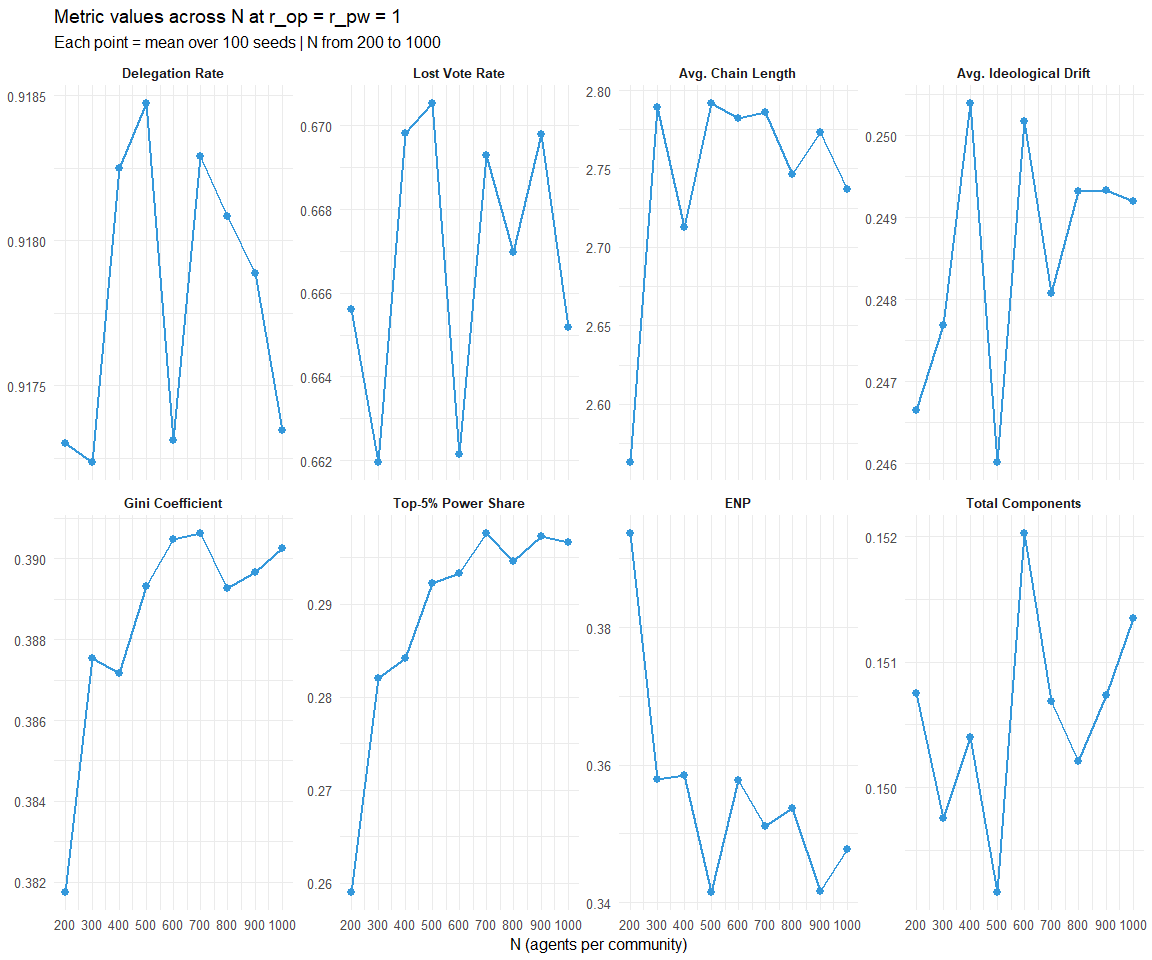
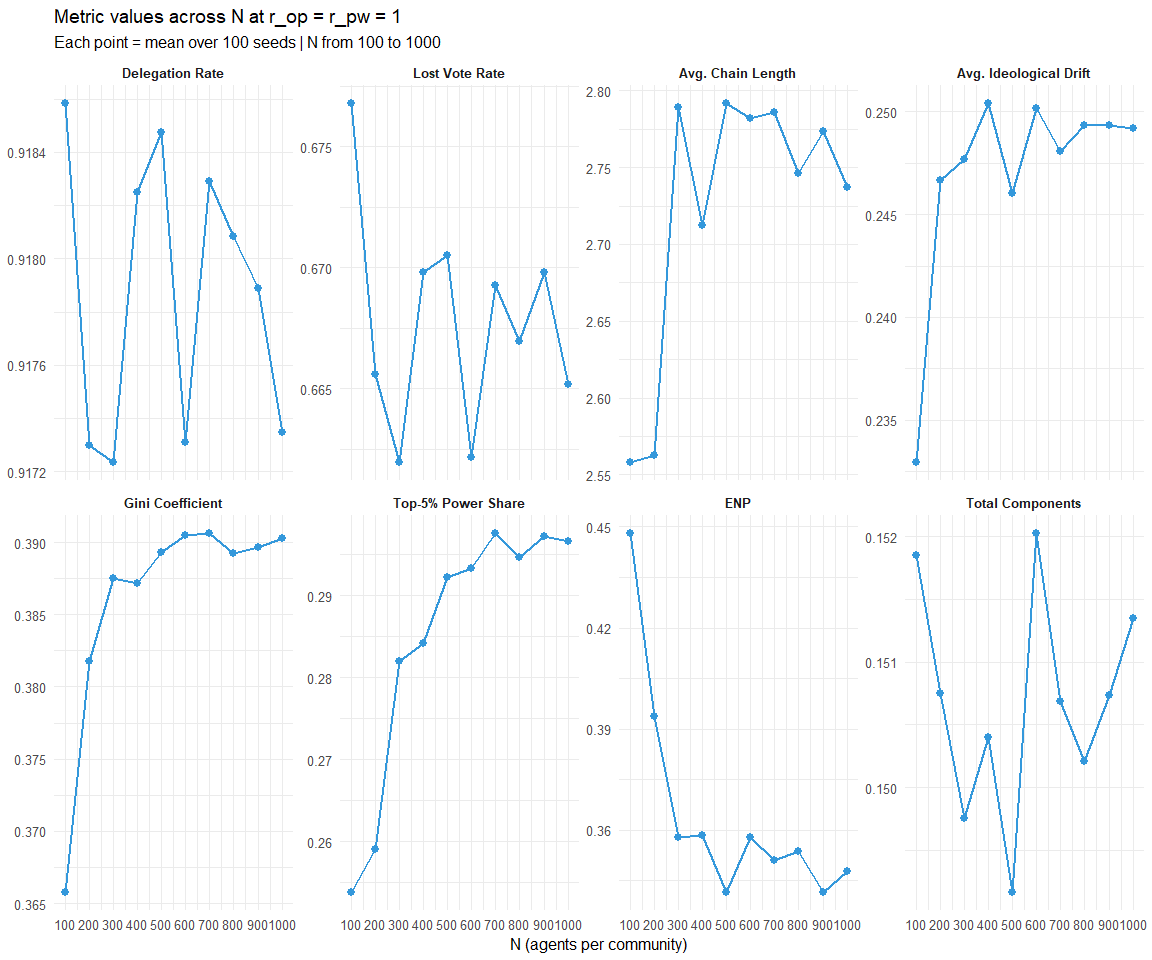
Report 13

diff --git a/reports/Report_13.md b/reports/Report_13.md
@@ -11,7 +11,7 @@ Two simulation sweeps underpin this report.
 plots that capture the global, potentially nonlinear response surface.
 
 **Robustness sweep** ($r_{op}, r_{pw} \in \{0,1,2\}$, N $\in$ {100, 200,
-, 1000}, node degree = 6, 100 seeds per combination): used for LMM
+…, 1000}, node degree = 6, 100 seeds per combination): used for LMM
 inference (N = 300 subset) and N-scaling analysis across all ten network
 sizes.
 
@@ -173,7 +173,7 @@ Total Components by $N$.
 
 ![](Report_13_files/figure-gfm/n-trends-1.png)<!-- -->
 
-Across the explored range ($N = 200$–$1000$), most delegation and
+Across the explored range (N = 200–1000), most delegation and
 concentration metrics remain relatively stable, suggesting that the
 system operates in a largely size-invariant regime under
 $r_{op} = r_{pw} = 1$.
@@ -183,35 +183,7 @@ Avg. Chain Length (for smaller sizes).
 
 ------------------------------------------------------------------------
 
-## 2.2 N as a predictor
-
-To estimate *how much* each metric changes per unit increase in N –
-controlling for $r_{op}$ and $r_{pw}$ – the model
-$y \sim r_{op} \times r_{pw} + N$ is fitted on cell means (averaged over
-seeds within each parameter combination). The coefficient for N is
-directly interpretable as the expected change per additional agent.
-
-| Metric | b (N) | p | SE | t | 95% CI low | 95% CI high |
-|:---|:---|:---|---:|---:|---:|---:|
-| Delegation Rate | 0 | 0.918 | 2.0e-06 | -0.103 | -0.000004 | 4.0e-06 |
-| Lost Vote Rate | -2e-06 | 0.751 | 7.0e-06 | -0.318 | -0.000016 | 1.2e-05 |
-| Avg. Chain Length | 0.000241\*\* | \< .001 | 3.5e-05 | 6.989 | 0.000173 | 3.1e-04 |
-| Avg. Ideological Drift | 1.1e-05\*\* | \< .001 | 2.0e-06 | 6.203 | 0.000007 | 1.4e-05 |
-| Gini Coefficient | 2e-05\*\* | \< .001 | 3.0e-06 | 6.893 | 0.000014 | 2.6e-05 |
-| Top-5% Power Share | 3.6e-05\*\* | \< .001 | 5.0e-06 | 6.939 | 0.000026 | 4.7e-05 |
-| ENP | -7.3e-05\*\* | \< .001 | 8.0e-06 | -9.050 | -0.000089 | -5.7e-05 |
-| Total Components | 0 | 0.822 | 1.0e-06 | 0.226 | -0.000001 | 2.0e-06 |
-
-Effect of N on each metric, controlling for r_op \* r_pw. Model: lm(y ~
-r_op \* r_pw + n_agents) fitted on cell means. b(N) = estimated change
-per 1-unit increase in N. \* p \< 0.05, \*\* p \< 0.01.
-
-Some metrics vary partially around a mean while others appear to need to
-exceed a certain threshold before levelling off.
-
-------------------------------------------------------------------------
-
-## 2.3 Coefficient tables – N = 200, 500, 1000
+## 2.2 Coefficient tables – N = 200, 500, 1000
 
 | Metric | N | b1 (r_op) | b2 (r_pw) | b3 (r_op:r_pw) | LRT χ² | R2m | R2c |
 |:---|---:|:---|:---|:---|:---|---:|---:|
@@ -253,7 +225,7 @@ at larger population sizes.
 
 ------------------------------------------------------------------------
 
-## 2.4 Coefficient plot – N = 200, 500, 1000
+## 2.3 Coefficient plot – N = 200, 500, 1000
 
 ![](Report_13_files/figure-gfm/n-coef-plot-1.png)<!-- -->
 
@@ -270,7 +242,7 @@ $$\tau_{ij}(t) = \lambda \cdot \tau_{ij}(t-1) - (1-\lambda)\cdot\bigl|o_i - v_j(
 
 **Modified attractiveness:**
 
-\$$\tilde{A}_{ij}(t) = A_{ij} \cdot 2\sigma\bigl(\gamma\cdot\tau_{ij}(t)\bigr)$
+$\tilde{A}_{ij}(t) = A_{ij} \cdot 2\sigma\bigl(\gamma\cdot\tau_{ij}(t)\bigr)$
 where
 $A_{ij} = \sigma\left(r_{op}(1-2|o_i-o_j|)\right)\cdot\sigma\left(r_{pw}\log(p_j/p_i)\right)$
 is the baseline attractiveness from Part 1. The factor $2\sigma(\cdot)$